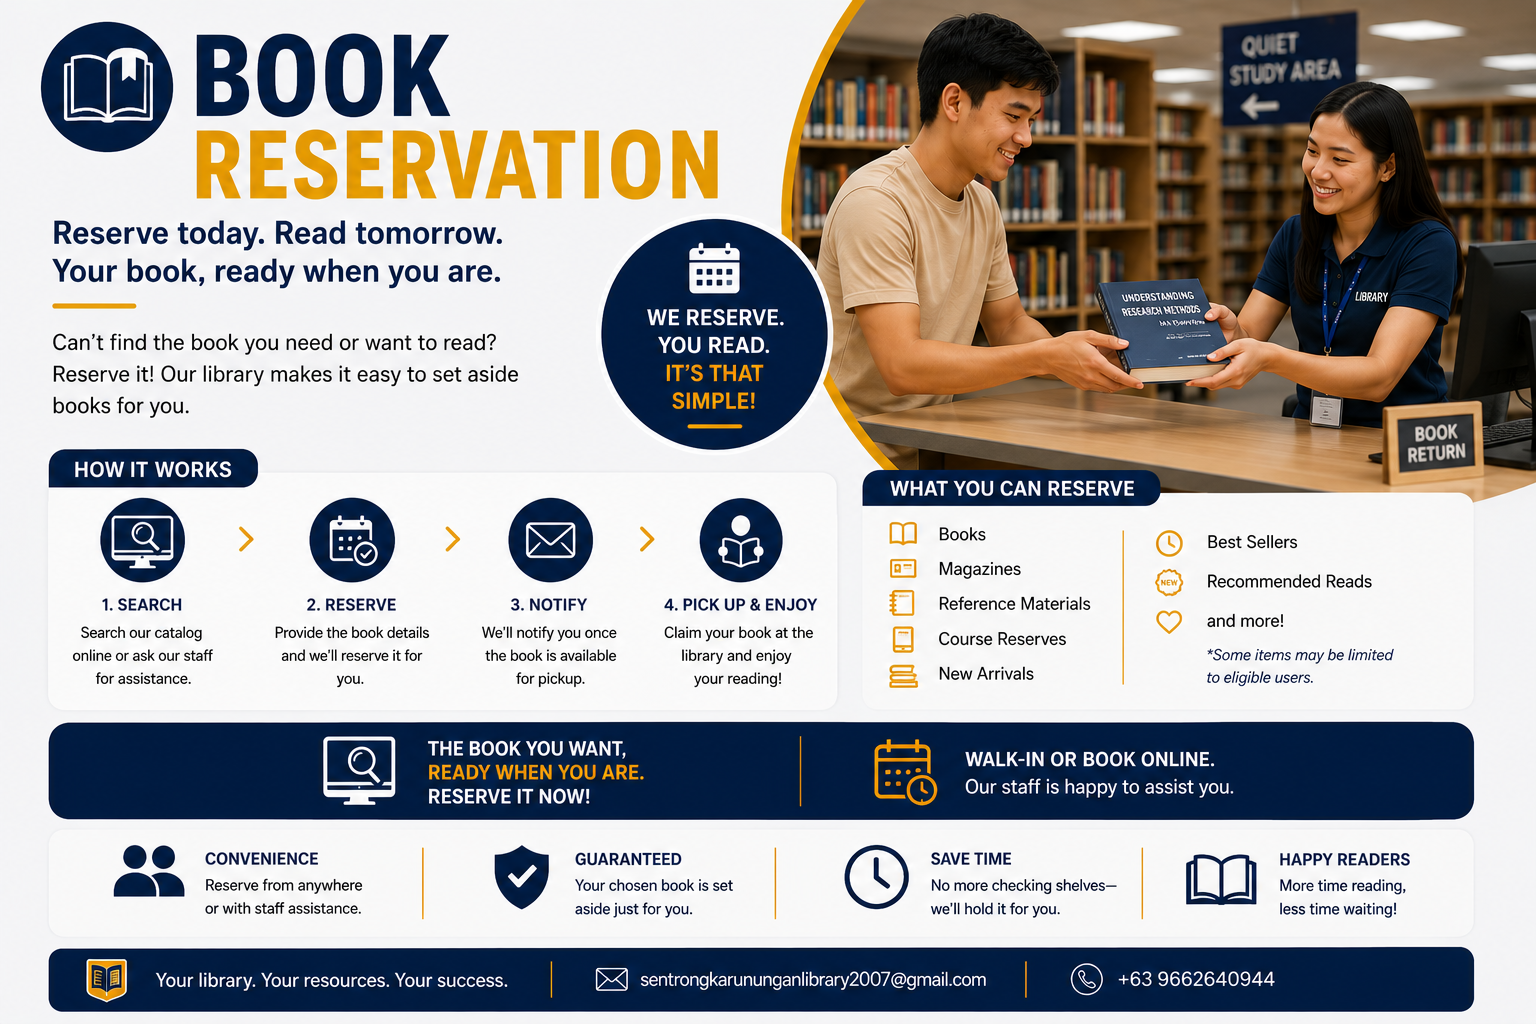
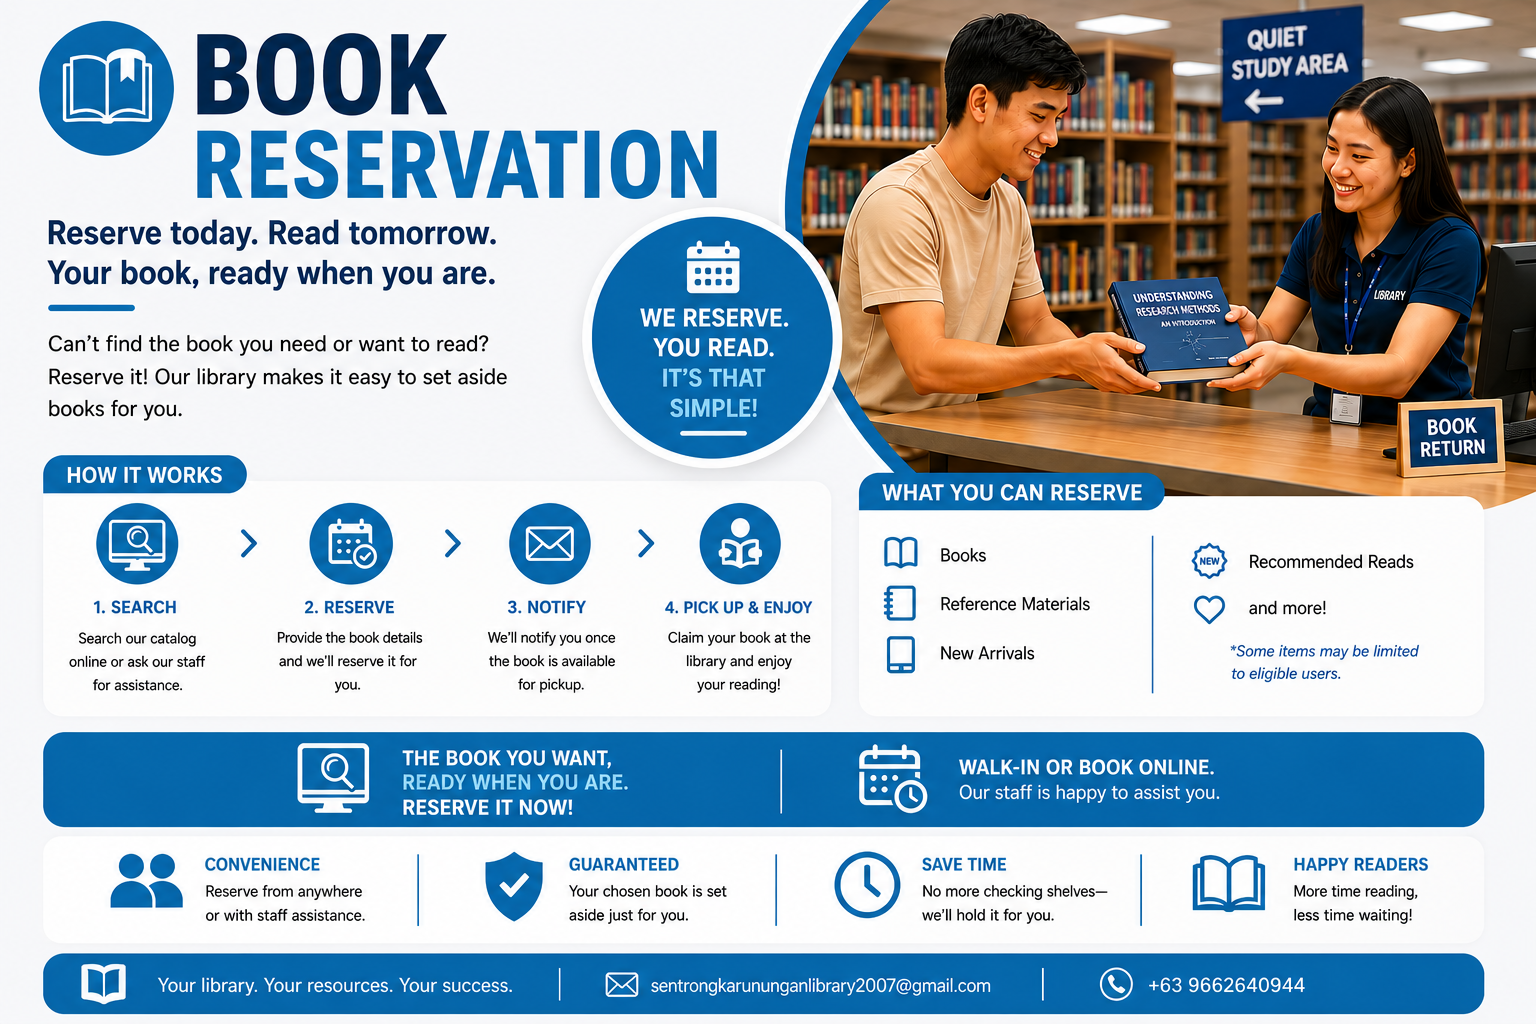
added update

diff --git a/src/components/AppFooter.vue b/src/components/AppFooter.vue
@@ -117,31 +117,33 @@ onMounted(() => {
             <div class="footer-title">Quick Links</div>
 
             <div class="footer-links">
-              <RouterLink to="/about">› About Us</RouterLink>
-              <a href="#services">› Services</a>
-              <a href="#resources">› Resources</a>
-              <a href="#facilities">› Facilities</a>
-              <a href="#contact">› Contact Us</a>
+              <RouterLink to="/opac">> OPAC</RouterLink>
+              <RouterLink to="/about?section=history">> About Us</RouterLink>
+              <RouterLink to="/services">> Services</RouterLink>
+              <RouterLink to="/resources?section=eresources">> Resources</RouterLink>
+              <RouterLink to="/about?section=facilities">> Facilities</RouterLink>
+              <RouterLink to="/events">> Events</RouterLink>
+              <RouterLink to="/contact">> Contact Us</RouterLink>
             </div>
           </div>
 
           <!-- CONTACT -->
           <div class="col-lg-3">
             <div class="footer-title">Contact Information</div>
-            <p class="mb-2">
+            <p class="mb-2 sub-title">
               3rd Floor, TMX Prime Block <br />
               Tutuban Center Mall <br />
               Recto Avenue, Tondo, Manila
             </p>
-            <p class="mb-1">+63 966-2640-944</p>
-            <p class="mb-0">sentrongkarununganlibrary2007@gmail.com</p>
+            <p class="mb-1 sub-title">+63 966-2640-944</p>
+            <p class="mb-0 sub-title">sentrongkarununganlibrary2007@gmail.com</p>
           </div>
           <!-- VISITORS -->
           <div class="col-lg-3">
             <div class="footer-title">
               Offsite Visitors Count
             </div>
-            <ul class="visitors p-0 m-0">
+            <ul class="visitors p-0 m-0 sub-title">
               <li>📘 Users Today: <strong>{{ visitors.today }}</strong></li>
               <li>📘 Users Yesterday: <strong>{{ visitors.yesterday }}</strong></li>
               <li>📘 Users Last 7 Days: <strong>{{ visitors.last7Days }}</strong></li>
@@ -195,15 +197,19 @@ onMounted(() => {
   margin-bottom: 16px;
 }
 
+.sub-title {
+  color: #111;
+}
+
 .footer-links a {
   display: block;
-  color: #12324d;
+  color: #111;
   text-decoration: none;
   margin-bottom: 10px;
 }
 
 .footer-links a:hover {
-  color: var(--primary);
+  color: #111;
 }
 
 .visitors li {

diff --git a/src/assets/css/style.css b/src/assets/css/style.css
@@ -1,10 +1,11 @@
 :root {
-  --primary: #142F5F;
+  --primary: #2C77A2;
   --primary-dark: #2252e2;
   --secondary: #d12b2e;
   --tertiary: #f9c300;
   --neutral: #76777a;
 
+  /* --primary: #142F5F; */
   --light-blue: #eef5fa;
   --soft-gray: #f5f7fa;
   --text: #1f2a37;
